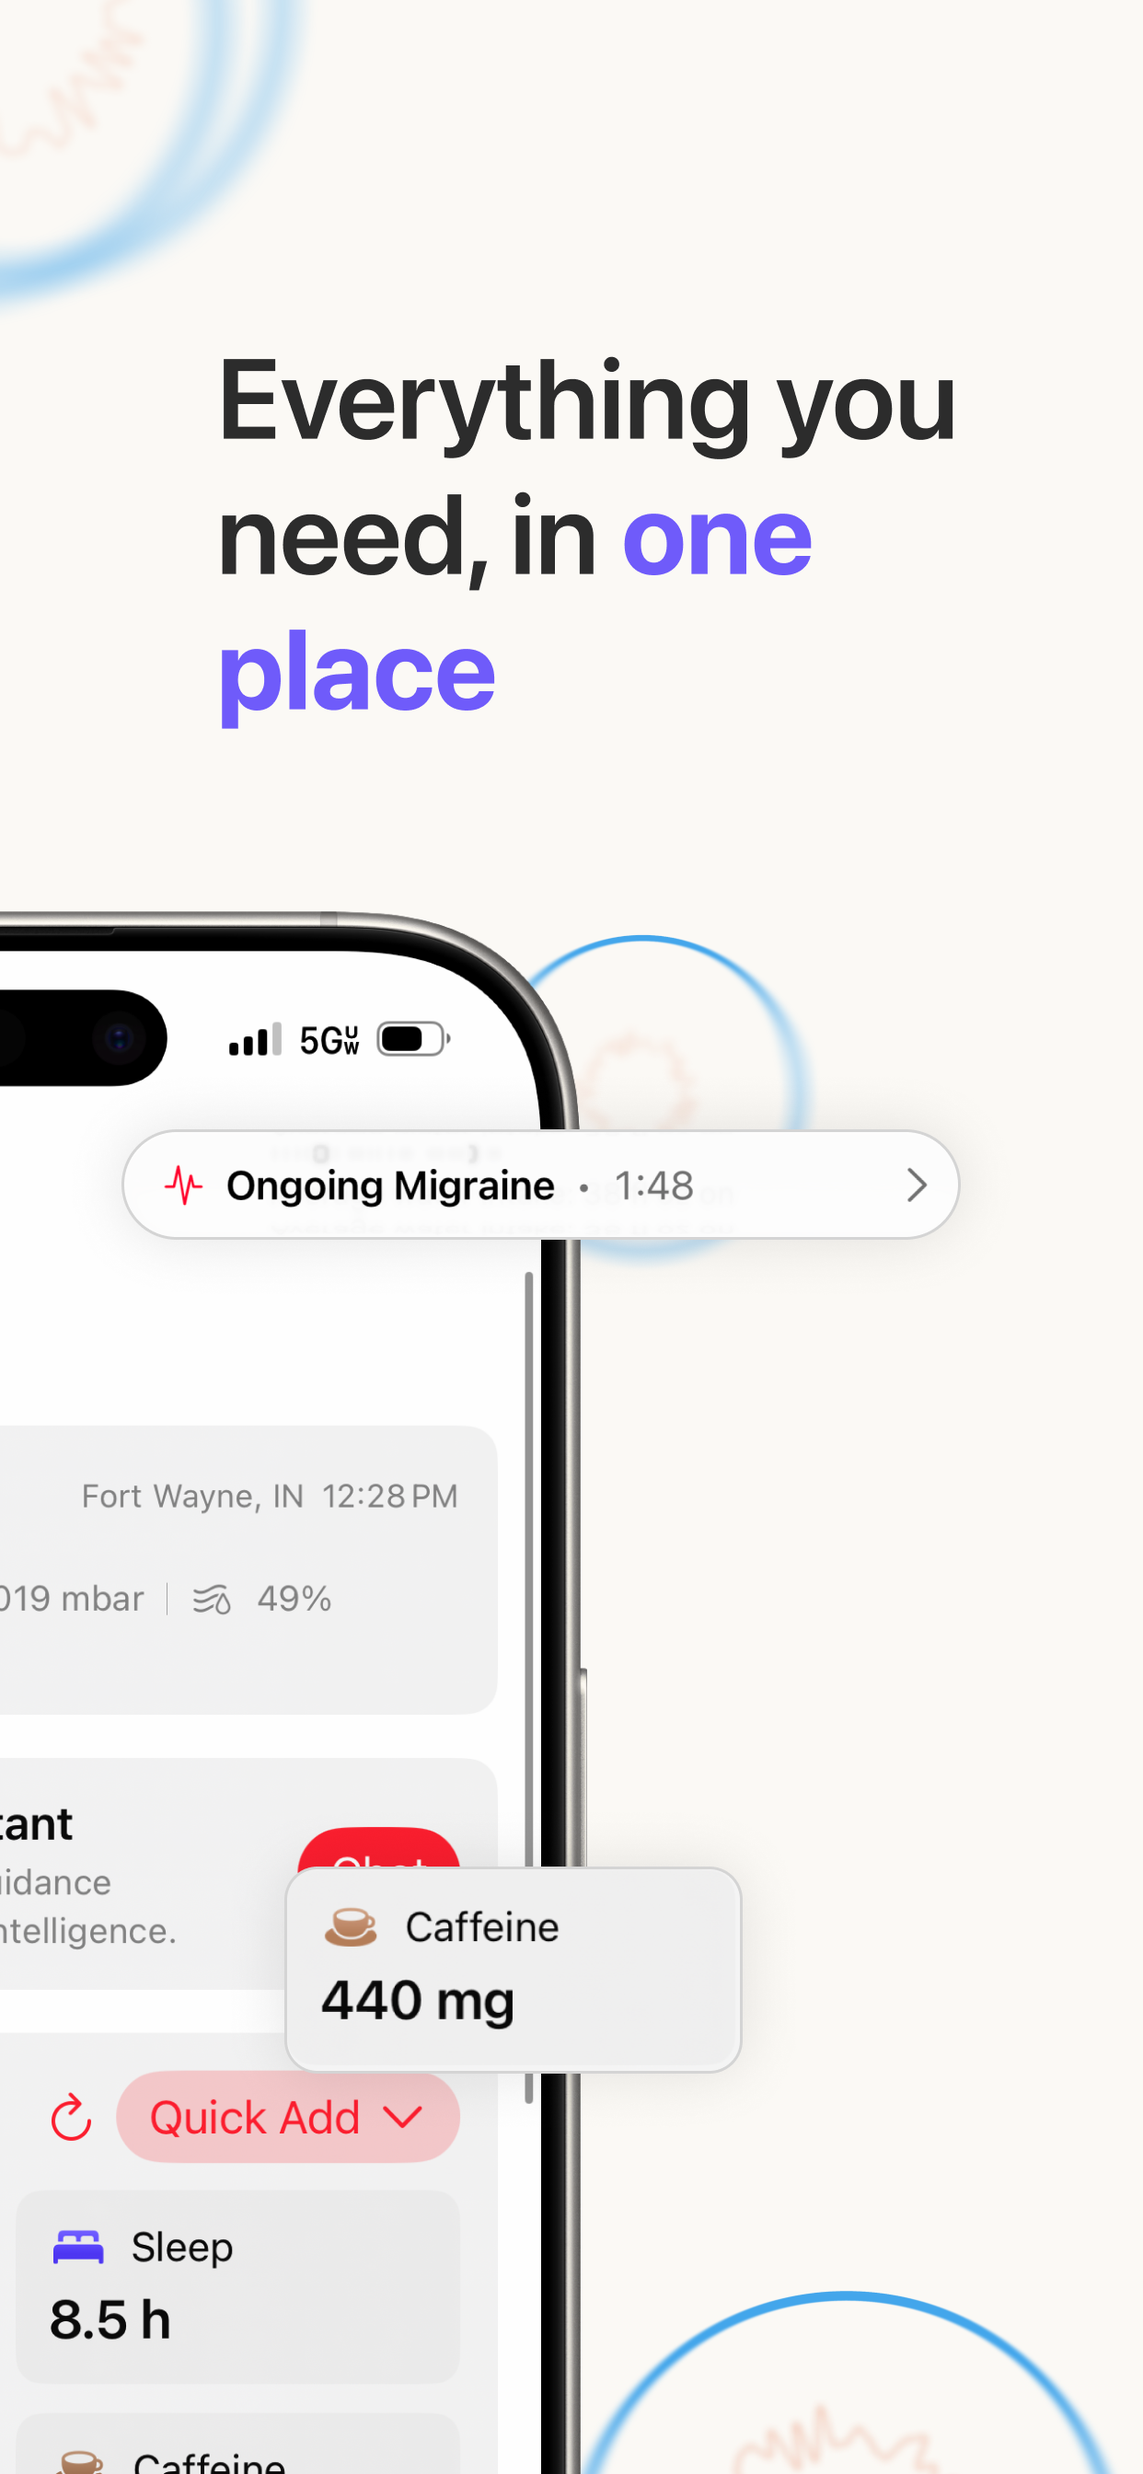
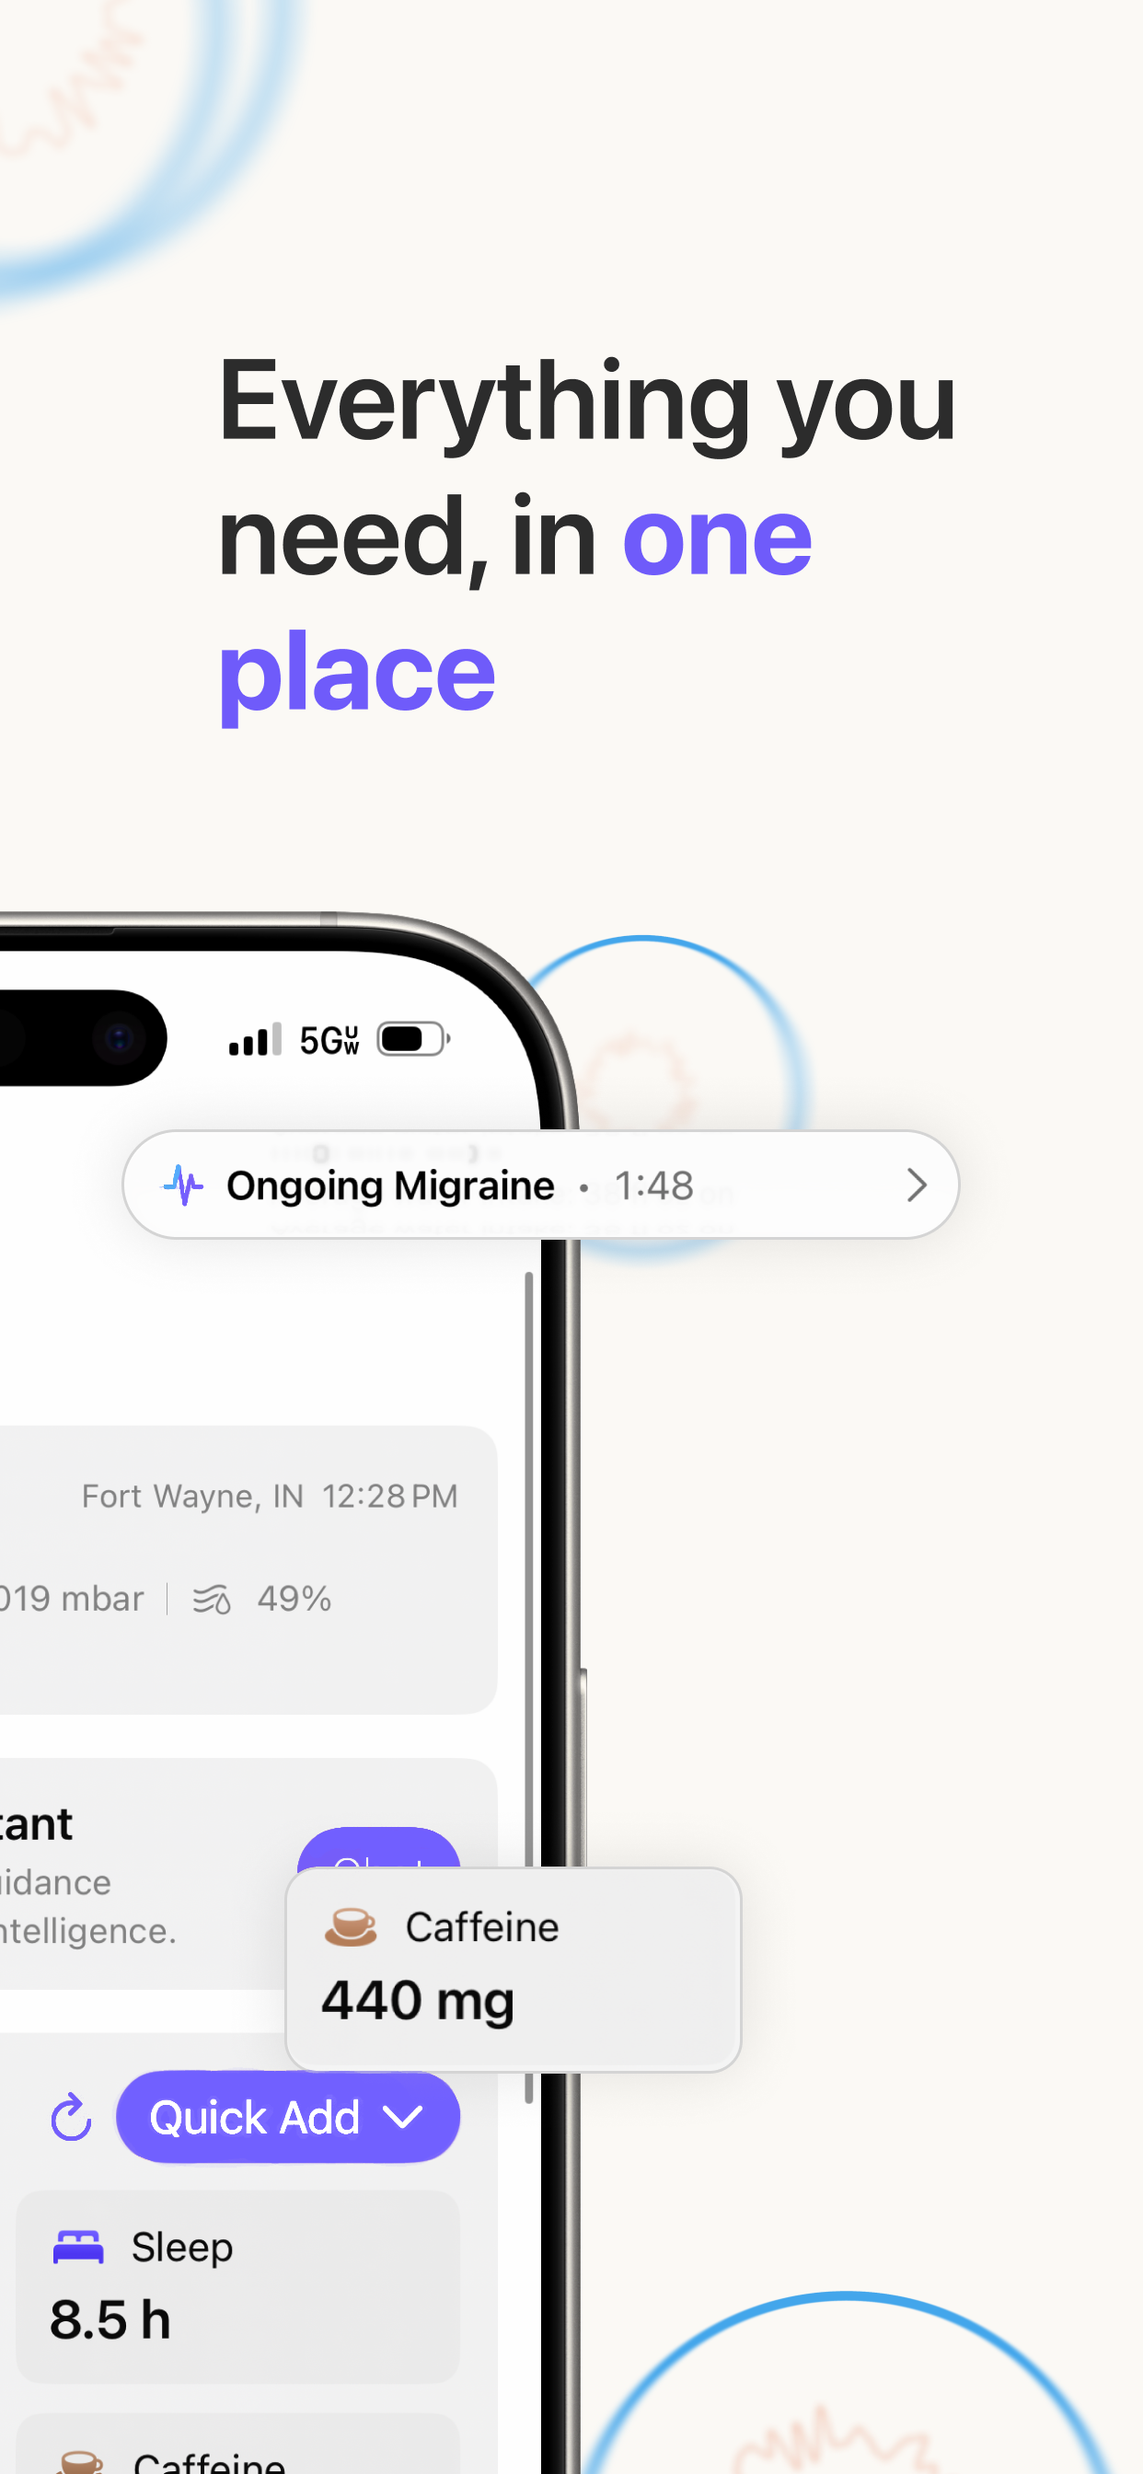
Rahul, watch screenshots

Changed region(s): [[0.0306, 0.8125, 0.3977, 0.875], [0.2754, 0.7188, 0.3977, 0.7812], [0.153, 0.4688, 0.1836, 0.5]]

diff --git a/Mygra/Views/Main/Assistant/MigraineAssistantView.swift b/Mygra/Views/Main/Assistant/MigraineAssistantView.swift
@@ -18,6 +18,7 @@ struct MigraineAssistantView: View {
     @State private var lastMessageID: AnyHashable? = nil
     @State private var isSending: Bool = false
     @State private var lastConversationCount: Int = 0
+    @State private var animateHeaderGlow = false
     
     private var sendEnabled: Bool {
         !inputText.trimmingCharacters(in: .whitespacesAndNewlines).isEmpty && !insightManager.isGeneratingGuidance
@@ -38,12 +39,51 @@ struct MigraineAssistantView: View {
                             VStack(spacing: 8) {
                                 Text("Migraine Assistant")
                                     .font(.title2).bold()
-                                Text("Powered by Apple Intelligence")
-                                    .font(.subheadline)
-                                    .foregroundStyle(.secondary)
-                                    .multilineTextAlignment(.center)
-                                    .padding(.horizontal)
-                                    .padding(.bottom, 8)
+                                HStack(spacing: 6) {
+                                    Image(systemName: "apple.intelligence")
+                                        .symbolEffect(.pulse, isActive: insightManager.isGeneratingGuidance)
+                                        .foregroundStyle(
+                                            AngularGradient(
+                                                colors: [.orange, .red, .purple, .blue, .purple, .red, .orange, .orange],
+                                                center: .center,
+                                                startAngle: .degrees(-90),
+                                                endAngle: .degrees(270)
+                                            )
+                                        )
+                                    Text("Powered by Apple Intelligence")
+                                        .font(.caption)
+                                        .foregroundStyle(.secondary)
+                                        .overlay {
+                                            LinearGradient(colors: [.clear, .white.opacity(0.7), .clear], startPoint: .leading, endPoint: .trailing)
+                                                .mask(
+                                                    Text("Powered by Apple Intelligence").font(.caption)
+                                                )
+                                                .opacity(animateHeaderGlow ? 1 : 0.2)
+                                                .animation(.easeInOut(duration: 2).repeatForever(autoreverses: true), value: animateHeaderGlow)
+                                        }
+                                    if insightManager.isGeneratingGuidance {
+                                        ProgressView()
+                                            .controlSize(.small)
+                                    }
+                                }
+                                .padding(.horizontal, 10)
+                                .padding(.vertical, 6)
+                                .background(
+                                    Capsule()
+                                        .fill(.ultraThinMaterial)
+                                        .overlay(
+                                            Capsule()
+                                                .stroke(
+                                                    AngularGradient(
+                                                        colors: [.orange.opacity(0.9), .pink.opacity(0.8), .purple.opacity(0.9), .blue.opacity(0.9), .purple.opacity(0.9), .pink.opacity(0.8), .orange.opacity(0.9)],
+                                                        center: .center
+                                                    ),
+                                                    lineWidth: 1
+                                                )
+                                                .opacity(0.9)
+                                        )
+                                        .shadow(color: .purple.opacity(0.15), radius: 8, x: 0, y: 2)
+                                )
                             }
                             .id("assistantHeader")
                             
@@ -178,7 +218,7 @@ struct MigraineAssistantView: View {
                     .overlay(Divider(), alignment: .top)
                 }
                 .toolbar {
-                    ToolbarItem(placement: .topBarLeading) {
+                    ToolbarItem(placement: .topBarTrailing) {
                         Button {
                             Haptics.lightImpact()
                             dismiss()

diff --git a/Mygra/Views/Main/Migraines/List/MigraineListView.swift b/Mygra/Views/Main/Migraines/List/MigraineListView.swift
@@ -54,8 +54,10 @@ struct MigraineListView: View {
                                     } label: {
                                         Label("Show All", systemImage: "pin.slash")
                                     }
-                                    .buttonStyle(.borderedProminent)
-                                    .tint(.yellow)
+                                    .padding(8)
+                                    .padding(.horizontal, 5)
+                                    .foregroundStyle(.white)
+                                    .adaptiveGlass(tint: .yellow)
                                     .accessibilityIdentifier("emptyShowAllButton")
                                 }
                                 Button {
@@ -64,8 +66,10 @@ struct MigraineListView: View {
                                 } label: {
                                     Label("Clear Filters", systemImage: "xmark.circle")
                                 }
-                                .buttonStyle(.bordered)
-                                .tint(.mygraBlue)
+                                .padding(8)
+                                .padding(.horizontal, 5)
+                                .foregroundStyle(.white)
+                                .adaptiveGlass(tint: .mygraBlue)
                                 .accessibilityIdentifier("emptyClearFiltersButton")
                             }
                             .padding(.top, 4)
@@ -77,6 +81,10 @@ struct MigraineListView: View {
                         } label: {
                             Label("Adjust Filters", systemImage: "slider.horizontal.3")
                         }
+                        .padding(8)
+                        .padding(.horizontal, 5)
+                        .foregroundStyle(.white)
+                        .adaptiveGlass(tint: .green)
                     }
                 } else {
                     ScrollView {
@@ -156,8 +164,10 @@ struct MigraineListView: View {
                                         } label: {
                                             Label("Show All", systemImage: "pin.slash")
                                         }
-                                        .buttonStyle(.bordered)
-                                        .tint(.yellow)
+                                        .padding(8)
+                                        .padding(.horizontal, 5)
+                                        .foregroundStyle(.white)
+                                        .adaptiveGlass(tint: .yellow)
                                         .controlSize(.small)
                                         .accessibilityIdentifier("footerShowAllButton")
                                     }
@@ -173,8 +183,10 @@ struct MigraineListView: View {
                                     } label: {
                                         Label("Clear Filters", systemImage: "xmark.circle")
                                     }
-                                    .buttonStyle(.bordered)
-                                    .tint(.mygraBlue)
+                                    .padding(8)
+                                    .padding(.horizontal, 5)
+                                    .foregroundStyle(.white)
+                                    .adaptiveGlass(tint: .mygraBlue)
                                     .controlSize(.small)
                                     .accessibilityIdentifier("footerClearFiltersButton")
                                     
@@ -184,8 +196,10 @@ struct MigraineListView: View {
                                     } label: {
                                         Label("Adjust", systemImage: "slider.horizontal.3")
                                     }
-                                    .buttonStyle(.bordered)
-                                    .tint(.green)
+                                    .padding(8)
+                                    .padding(.horizontal, 5)
+                                    .foregroundStyle(.white)
+                                    .adaptiveGlass(tint: .green)
                                     .controlSize(.small)
                                     .accessibilityIdentifier("footerAdjustFiltersButton")
                                 }

diff --git a/Mygra/Views/Main/Migraines/List/MigraineFilterSheet.swift b/Mygra/Views/Main/Migraines/List/MigraineFilterSheet.swift
@@ -55,7 +55,11 @@ struct MigraineFilterSheet: View {
                 
                 if useDateRange {
                     DatePicker("Start", selection: $startDate, displayedComponents: [.date, .hourAndMinute])
+                        .tint(.mygraPurple)
+
                     DatePicker("End", selection: $endDate, in: startDate..., displayedComponents: [.date, .hourAndMinute])
+                        .tint(.mygraPurple)
+
                 }
             }
             
@@ -110,7 +114,10 @@ struct MigraineFilterSheet: View {
                         } label: {
                             Label("Clear", systemImage: "circle.slash")
                         }
-                        .buttonStyle(.bordered)
+                        .padding(8)
+                        .padding(.horizontal, 5)
+                        .foregroundStyle(.white)
+                        .adaptiveGlass(tint: .mygraPurple)
                         .controlSize(.small)
                     }
                 }
@@ -130,10 +137,10 @@ struct MigraineFilterSheet: View {
                                         Spacer()
                                         if workingFilter.requiredTriggers.contains(trig) {
                                             Image(systemName: "checkmark.circle.fill")
-                                                .foregroundStyle(.red)
+                                                .foregroundStyle(.mygraBlue)
                                         } else {
                                             Image(systemName: "circle")
-                                                .foregroundStyle(.red)
+                                                .foregroundStyle(.mygraBlue)
                                         }
                                     }
                                 }

diff --git a/Mygra/Views/Main/Migraines/Detail/MigraineDetailView.swift b/Mygra/Views/Main/Migraines/Detail/MigraineDetailView.swift
@@ -66,20 +66,6 @@ struct MigraineDetailView: View {
                 if let h = migraine.health {
                     HealthDetailView(health: h, useMetricUnits: useMetricUnits)
                 }
-                
-                Spacer(minLength: 12)
-                
-                // Delete button at the very bottom
-                Button(role: .destructive) {
-                    showDeleteConfirm = true
-                } label: {
-                    Label("Delete Migraine", systemImage: "trash")
-                        .frame(maxWidth: .infinity)
-                        .padding()
-                }
-                .buttonStyle(.bordered)
-                .tint(.red)
-                .accessibilityIdentifier("deleteMigraineButton")
             }
             .padding()
         }
@@ -118,10 +104,20 @@ struct MigraineDetailView: View {
                     Button {
                         showingModifySheet = true
                     } label: {
-                        Label("Modify", systemImage: "pencil")
+                        Label("Modify", systemImage: "slider.horizontal.3")
                     }
                     .tint(.green)
                     .accessibilityIdentifier("modifyMigraineButton")
+                }
+                
+                ToolbarItem(placement: .topBarTrailing) {
+                    Button {
+                        showDeleteConfirm = true
+                    } label: {
+                        Label("Delete Migraine", systemImage: "trash")
+                    }
+                    .tint(.red)
+                    .accessibilityIdentifier("deleteMigraineButton")
                 }
             }
         }

diff --git a/Mygra/Views/Main/Settings/SettingsView.swift b/Mygra/Views/Main/Settings/SettingsView.swift
@@ -173,6 +173,12 @@ Are you sure you want to proceed?
                     Link("Nick Molargik", destination: URL(string: "https://www.linkedin.com/in/nicholas-molargik/")!)
                         .foregroundStyle(.mygraBlue)
                 }
+                
+                LabeledContent("Graphics") {
+                    Link("Rahul Parmar", destination: URL(string: "https://www.linkedin.com/in/rpn4499/")!)
+                        .foregroundStyle(.mygraBlue)
+                }
+                
                 LabeledContent("Publisher") {
                     Link("Molargik Software LLC", destination: URL(string: "https://www.molargiksoftware.com")!)
                         .foregroundStyle(.mygraBlue)

diff --git a/Mygra/Views/Main/Migraines/Entry/DurationSection.swift b/Mygra/Views/Main/Migraines/Entry/DurationSection.swift
@@ -21,9 +21,15 @@ struct DurationSection: View {
             in: ...Date(),
             displayedComponents: [.date, .hourAndMinute]
         )
+        .tint(.mygraPurple)
+
+        
         Toggle("Ongoing", isOn: $isOngoing)
+        
         if !isOngoing {
             DatePicker("Ended", selection: $endDate, in: startDate...Date(), displayedComponents: [.date, .hourAndMinute])
+                .tint(.mygraPurple)
+
         } else if showLiveActivityNote {
             Text("We'll start a neat little Live Activity to help you track duration!")
                 .foregroundStyle(.gray)

diff --git a/Mygra Wrist Watch App/ContentView.swift b/Mygra Wrist Watch App/ContentView.swift
@@ -23,7 +23,7 @@ struct ContentView: View {
 
     var body: some View {
         NavigationStack {
-            Group {
+            ScrollView {
                 if !isPhoneAppInstalled {
                     VStack(spacing: 6) {
                         Text("Open Mygra on your iPhone")
@@ -81,6 +81,9 @@ struct ContentView: View {
                         self.now = date
                     }
                 }
+            }
+            .refreshable {
+                aggressiveRefresh()
             }
             .navigationTitle("Mygra")
             .onAppear {

diff --git a/Mygra/Views/Main/Insights/Cards/IntelligenceCardView.swift b/Mygra/Views/Main/Insights/Cards/IntelligenceCardView.swift
@@ -36,10 +36,10 @@ struct IntelligenceCardView: View {
             
             Button(action: onOpen) {
                 Text("Chat")
-                    .padding(8)
-                    .padding(.horizontal, 5)
-                    .foregroundStyle(.white)
             }
+            .padding(8)
+            .padding(.horizontal, 5)
+            .foregroundStyle(.white)
             .adaptiveGlass(tint: .mygraPurple)
             .accessibilityLabel("Open Migraine Assistant")
         }

diff --git a/Mygra/Views/Main/Migraines/Detail/EndMigraineSheet.swift b/Mygra/Views/Main/Migraines/Detail/EndMigraineSheet.swift
@@ -35,6 +35,7 @@ struct EndMigraineSheet: View {
                         in: startDate...Date().addingTimeInterval(365*24*3600),
                         displayedComponents: [.date, .hourAndMinute]
                     )
+                    .tint(.mygraPurple)
                 } footer: {
                     Text("Choose when this migraine ended. The end time must be after the start time.")
                 }

diff --git a/Mygra/Views/Main/Migraines/List/MigraineRowView.swift b/Mygra/Views/Main/Migraines/List/MigraineRowView.swift
@@ -262,8 +262,8 @@ struct MigraineRowView: View {
                 Text(liveDurationString(now: now))
                     .font(.caption).bold()
                     .monospacedDigit()
+                    .lineLimit(1)
             }
-            .foregroundStyle(.black)
             .padding(.horizontal, 8)
             .padding(.vertical, 4)
             .background(

diff --git a/Mygra/Views/Main/Settings/UserEditView.swift b/Mygra/Views/Main/Settings/UserEditView.swift
@@ -35,7 +35,7 @@ struct UserEditView: View {
                 displayedComponents: .date
             )
             .datePickerStyle(.graphical)
-            .tint(.red)
+            .tint(.mygraPurple)
             .onChange(of: user.birthday) { isFirstNameFocused = false }
         }
 
